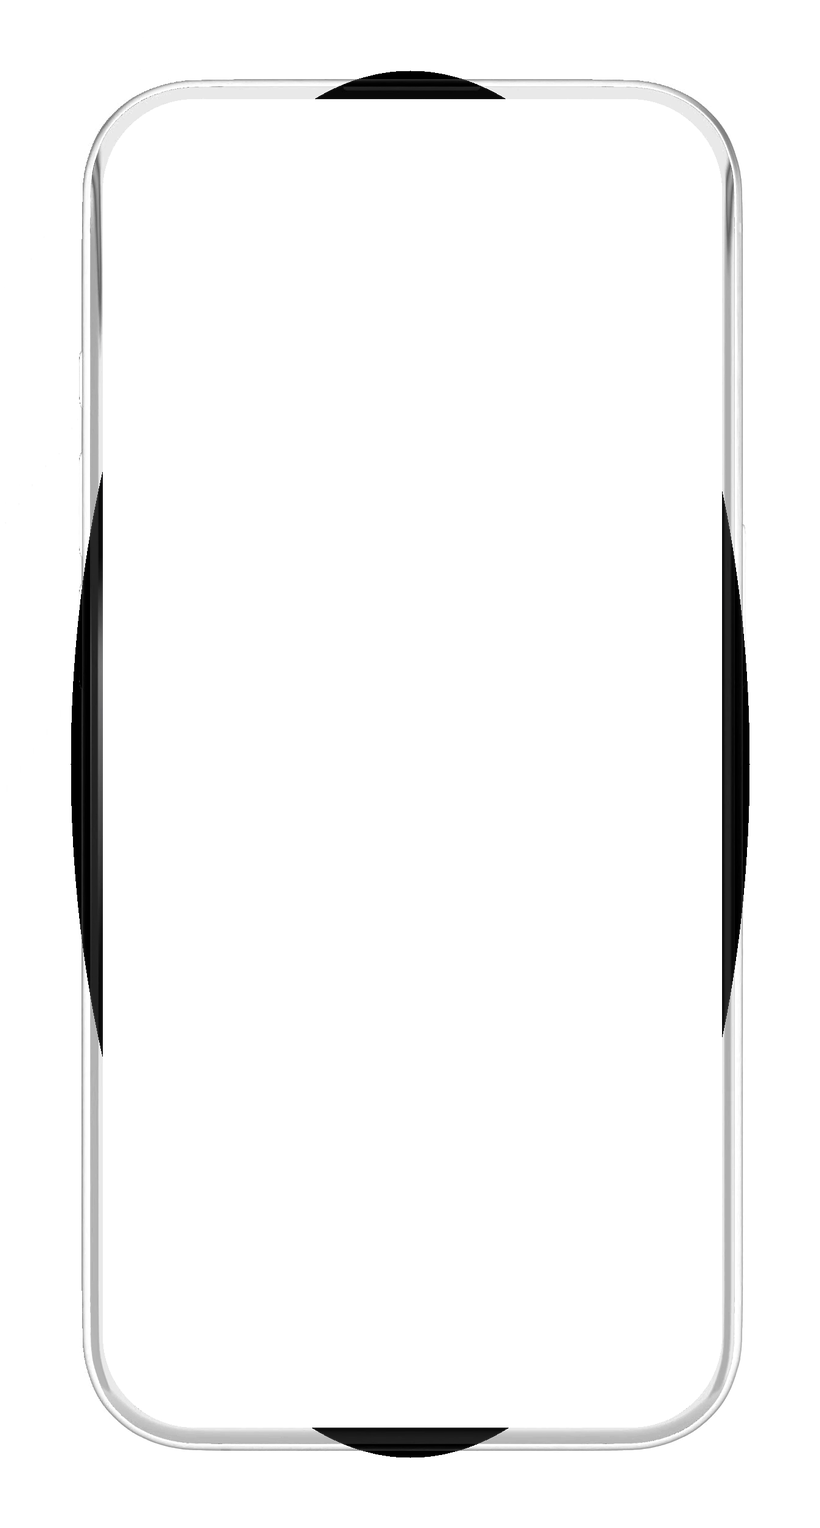
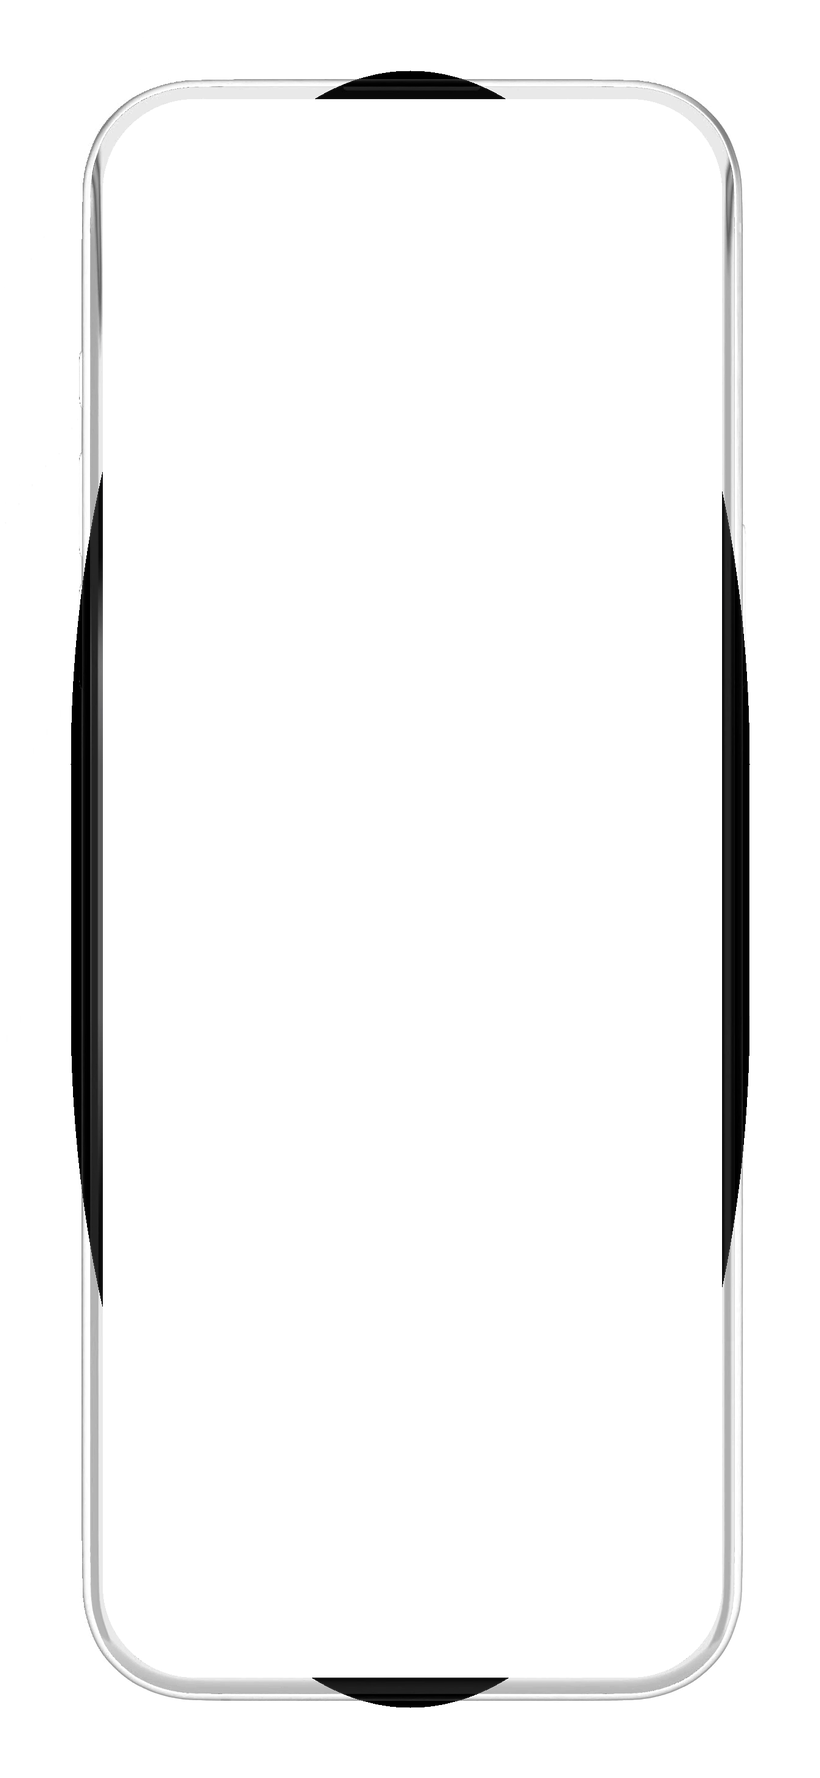
Site2026v47 — le téléphone reprend les proportions d'un vrai iPhone
TROIS DEMANDES DE CHANDLER, 04/09

1 — « LE MOCKUP NE FAIT PAS LA TAILLE D'UN VÉRITABLE TÉLÉPHONE »
Mesuré : le châssis faisait 820 × 1528, soit un rapport de 1,86. Un iPhone 16
fait 2,17. Il était donc réellement trop court pour sa largeur — ce n'était pas
une impression.

⚠ L'IMAGE A ÉTÉ ALLONGÉE PAR LE MILIEU, JAMAIS ÉTIRÉE. Un `scale` vertical
aurait déformé les coins arrondis, les boutons et l'épaisseur de la tranche :
le téléphone serait devenu un objet qui n'existe pas. On duplique 250 lignes
prises dans le PLATEAU de la tranche — mesuré : entre y 710 et y 830, le bord
mesure 32 px sans varier d'un pixel, donc la jonction est invisible.
820 × 1778, rapport 2,168. Vérifié à l'écran : 322 × 703, rapport 2,182.

⚠ ET LES REPÈRES DE L'ÉCRAN SUIVENT, AUX DEUX ENDROITS. `.ecran` est posé en
POURCENTAGES du cadre : la marge du haut ne bouge pas en pixels, donc son
pourcentage baisse (6,221 → 5,346) tandis que l'écran gagne les 250 px
(87,439 → 89,205). Le rayon vertical se mesure sur l'écran, pas sur le cadre
(6,871 → 5,788). Le même 0,89205 est écrit dans le JavaScript
(`AjnayaPhoneDemo.tsx`) : si l'un change sans l'autre, l'écran se décale du
cadre de quelques pixels — visible seulement en bas, donc jamais remarqué.

2 — LA FRISE ET LA SUGGESTION PARTENT
« Les zones rentables, heure par heure » (trois créneaux à 31/44/52 €/h marqués
« exemple ») et « Voir ma zone sur la carte » sont retirées. Ce qui reste dans
[…]

diff --git a/src/components/zone/AjnayaPhoneDemo.tsx b/src/components/zone/AjnayaPhoneDemo.tsx
@@ -248,7 +248,11 @@ export default function AjnayaPhoneDemo({
         const restant = fenetre.clientHeight - hautEcran
         /* La hauteur naturelle reste le plafond : sur un grand écran, le
            téléphone tient en entier et on ne l'étire surtout pas. */
-        const naturelle = tel.offsetHeight * 0.87439
+        /* 0,8920517 = la part de l'écran dans le châssis, LA MÊME que le
+           `height` de `.ecran` en CSS. Les deux valeurs doivent bouger
+           ensemble : si l'une change sans l'autre, l'écran se décale du cadre
+           et le décalage ne se voit qu'en bas, à quelques pixels près. */
+        const naturelle = tel.offsetHeight * 0.8920517
         const voulue = Math.max(HAUTEUR_ECRAN_MIN, Math.min(restant, naturelle))
         /* `floor` et non `round` : la hauteur du châssis est fractionnaire
            (698,77 px), donc le 6,221 % du bord haut l'est aussi. Arrondi au
@@ -899,37 +903,22 @@ export default function AjnayaPhoneDemo({
               )}
               <div className={s['aj-orbe']}>
                 <span className={parle ? `${s.anneau} ${s.respire}` : s.anneau} />
-                {/* ⚠ CE N'EST PLUS UN ŒIL, C'EST L'ICÔNE DE L'APP.
-                    Chandler, 04/09 : « ajoute la véritable icône qu'il y a dans
-                    l'app dans l'onglet Ajnaya, qui remplace l'œil ».
+                {/* ⚠ 04/09 — IL N'Y A VOLONTAIREMENT AUCUNE ICÔNE ICI.
+                    L'orbe garde son fond et son anneau, rien de plus.
 
-                    Elle est extraite du fichier de police que l'app charge
-                    vraiment — `Ionicons.ttf`, glyphe `sparkles` (0xF58C), celui
-                    que `FoTabBar.tsx` nomme à la ligne 54. Ce n'est donc pas un
-                    dessin qui ressemble : c'est le MÊME tracé, au point près.
-                    (Ionicons, licence MIT.)
+                    Il y a eu un œil, repris d'`AjnayaEyeAvatar` — le composant
+                    que l'app affiche en tête de l'écran Ajnaya. Chandler l'a
+                    fait retirer. J'ai ensuite posé le glyphe `sparkles`, celui
+                    que la barre d'onglets nomme dans
+                    `FOREAS-Clean/src/components/navigation/FoTabBar.tsx:54` —
+                    ce n'était pas non plus la bonne.
 
-                    ⚠ L'AXE Y D'UNE POLICE MONTE, CELUI D'UN SVG DESCEND. Sans
-                    le `scale(1,-1)` ci-dessous, l'icône s'affiche à l'envers et
-                    hors du cadre — et comme elle reste symétrique de loin, on
-                    peut le rater. La translation de 448 remet le haut du glyphe
-                    (ascendante mesurée) sur le bord du cadre. */}
-                <svg viewBox="0 0 512 512" aria-hidden="true">
-                  <defs>
-                    <radialGradient id="ajFond"><stop offset="0" stopColor="#0D1526" /><stop offset="1" stopColor="#080C18" /></radialGradient>
-                    <radialGradient id="ajHalo"><stop offset="0" stopColor="#00D4FF" stopOpacity=".28" /><stop offset=".6" stopColor="#6C3CE0" stopOpacity=".12" /><stop offset="1" stopColor="#6C3CE0" stopOpacity="0" /></radialGradient>
-                    <linearGradient id="ajEtoiles" x1="0" y1="0" x2="1" y2="1">
-                      <stop offset="0" stopColor="#6DEAFF" /><stop offset=".5" stopColor="#00D4FF" /><stop offset="1" stopColor="#8C52FF" />
-                    </linearGradient>
-                  </defs>
-                  <circle cx="256" cy="256" r="246" fill="url(#ajFond)" />
-                  <circle cx="256" cy="256" r="200" fill="url(#ajHalo)" />
-                  {/* 0,74 laisse une marge autour du glyphe : posé à 1, il
-                      touche le bord du disque et l'icône paraît à l'étroit. */}
-                  <g transform="translate(256,256) scale(0.74,-0.74) translate(-256,-192)">
-                    <path d="M82 447Q87 449 92.5 447.0Q98 445 100 441Q102 439 110.5 417.0Q119 395 120.0 393.0Q121 391 143.0 382.5Q165 374 169 372Q175 369 175.5 361.0Q176 353 170 349Q168 347 145.0 338.0Q122 329 120.5 327.5Q119 326 110.0 303.0Q101 280 99 278Q95 272 87.5 272.5Q80 273 76 278Q74 281 65.5 304.0Q57 327 55.0 328.0Q53 329 30.5 338.0Q8 347 6 348Q0 352 0 360Q0 366 5 371Q7 373 30.5 382.0Q54 391 55.5 392.5Q57 394 66 417Q76 444 82 447ZM392 414Q400 418 407 414Q411 412 414.0 406.5Q417 401 426 376Q439 344 440.5 343.0Q442 342 471 331Q505 318 508 314Q512 309 511.5 302.5Q511 296 506 292Q503 289 473.5 278.0Q444 267 442 266Q439 264 425 229Q416 205 413.0 199.5Q410 194 405 193Q396 190 389 197Q386 200 374.5 229.5Q363 259 362 262Q360 265 356.5 266.5Q353 268 318 282Q293 291 290 297Q284 307 293 316Q295 318 327.0 330.0Q359 342 360.5 343.5Q362 345 374.0 376.0Q386 407 387.5 409.5Q389 412 392 414ZM200 318Q200 318 200 318Q214 323 225 312Q225 312 230 308L251 253Q272 199 274.0 196.5Q276 194 279.0 192.5Q282 191 333.5 171.0Q385 151 388 149Q394 145 398 138Q402 128 398 118Q394 110 387 106Q385 105 333.5 85.0Q282 65 279.0 63.5Q276 62 274.0 59.5Q272 57 251 3Q251 3 230 -52L225 -56Q218 -64 208 -64Q195 -64 188 -54Q186 -51 165.0 3.5Q144 58 141.5 61.0Q139 64 86.5 84.0Q34 104 30 105Q23 109 18 117Q14 126 17 135Q20 144 28 149Q31 151 83.5 171.0Q136 191 138.5 193.0Q141 195 142.5 196.5Q144 198 164.5 252.0Q185 306 187 309Q192 316 200 318Z" fill="url(#ajEtoiles)" />
-                  </g>
-                </svg>
+                    Ce sont les deux SEULES marques Ajnaya que l'app dessine :
+                    l'œil dans l'écran, les étincelles dans l'onglet. Aucune
+                    autre n'existe dans le dépôt. Sa consigne : « si tu ne la
+                    trouves pas, mets rien, c'est mieux ». Une icône approchante
+                    serait une troisième marque — et trois marques pour une
+                    seule identité, c'est la garantie qu'aucune n'est la bonne. */}
               </div>
               <div className={s['aj-id']}>
                 <div className={s['aj-nom']}>Ajnaya</div>
@@ -1051,77 +1040,21 @@ export default function AjnayaPhoneDemo({
               {/* La frise ne montre ce qui se paie qu'APRÈS avoir donné. */}
               {!!(zoneCourante || '').trim() && (
               <>
-              {/* ══ LA FRISE PASSE APRÈS LA RÉPONSE, ET C'EST UN CHOIX ═══════
-                  Elle était le PREMIER enfant du fil. Comme le fil se cale
-                  désormais sur SA question, elle défilait hors du cadre au bout
-                  d'une demi-seconde : gardée, raccourcie… et jamais vue.
-                  Ici elle arrive à sa place dans le récit : il pose sa question,
-                  il reçoit une vraie réponse de métier — gratuite — et ENSUITE
-                  seulement il voit ce que l'app sait faire en plus.
-                  On donne avant de montrer ce qui se paie. */}
-              <div className={s['aj-frise']}>
-                {/* ⚠ LE MOT « EXEMPLE » EST À L'ÉCRAN, PAS SEULEMENT EN COMMENTAIRE.
-                    Un commentaire juste au-dessus d'un écran qui ment est un faux
-                    témoin, pas une protection. Il reste à la même taille que les
-                    montants qu'il corrige : une mise en garde plus petite que ce
-                    qu'elle corrige ne corrige rien. */}
-                <div className={s.titre}>
-                  Les zones rentables, heure par heure
-                  <span className={s['aj-exemple']}>exemple</span>
-                </div>
-                {/* ⚠ LA PHRASE DE PROMESSE EST RETIRÉE, ET C'EST ELLE QUI FAISAIT
-                    AMATEUR. Elle disait « Ajnaya sait où ça paie autour de {lieu} »
-                    en recopiant tout ce qu'il avait tapé : « autour de comment tu
-                    peux savoir ». Le lieu est maintenant écrit une seule fois, dans
-                    l'en-tête, et il y est juste. 26 points de haut rendus au fil. */}
-                <div className={s['aj-piste']}>
-                  <div className={s['aj-points']}>
-                    <div className={`${s['aj-tiers']} ${s.d}`}><span className={`${s['aj-point']} ${s.on}`} /></div>
-                    <div className={`${s['aj-tiers']} ${s.m}`}><span className={`${s['aj-point']} ${s.futur}`} /></div>
-                    <div className={`${s['aj-tiers']} ${s.f}`}><span className={`${s['aj-point']} ${s.futur}`} /></div>
-                  </div>
-                </div>
-                <div className={s['aj-heures']}>
-                  {/* ⚠ 31/44/52 €/h sont des EXEMPLES, pas des mesures. En
-                      euros et non en pourcentage : un « +61 % » ne se dépense pas. */}
-                  <div className={`${s['aj-tiers']} ${s.d}`}>
-                    <span className={s['aj-heure']}>{heures.h1}</span><span className={s.val}>31 €/h</span>
-                  </div>
-                  <div className={`${s['aj-tiers']} ${s.m} ${s.floue}`}>
-                    <span className={s['aj-heure']}>{heures.h2}</span><span className={s.val}>44 €/h</span>
-                  </div>
-                  <div className={`${s['aj-tiers']} ${s.f} ${s.floue}`}>
-                    <span className={s['aj-heure']}>{heures.h3}</span><span className={s.val}>52 €/h</span>
-                  </div>
-                </div>
-                {/* ⚠ CE VERROU N'EXISTE PAS DANS L'APP — voir l'en-tête. */}
-                <div className={s['aj-verrou']} onClick={onEssaiClick} role="button" tabIndex={0}
-                     onPointerUp={(e) => e.stopPropagation()}
-                     onKeyDown={(e) => e.key === 'Enter' && onEssaiClick?.()}>
-                  <svg viewBox="0 0 24 24" fill="currentColor"><path d="M17 9V7a5 5 0 00-10 0v2H5v13h14V9h-2zM9 7a3 3 0 016 0v2H9V7zm4 9.7V19h-2v-2.3a2 2 0 112 0z" /></svg>
-                  {/* ⚠ NE JAMAIS ÉCRIRE « réservées aux abonnés ». C'était faux deux fois :
-                      ce verrou n'existe pas dans l'app, et les chiffres floutés derrière
-                      ne sont mesurés nulle part. On vendait donc l'ouverture d'un vide.
-                      Dans l'app, un point éteint veut dire « rien de mesuré », jamais « bloqué ». */}
-                  {/* ⚠ UNE SEULE LIGNE — Chandler, 04/09 : « la petite bande avec
-                      le cadenas prend trop d'espace au lieu de tenir sur une ligne ».
-                      Elle en prenait trois : 32 points rendus au fil.
-                      Le mot « exemple » RESTE : c'est la seule mise en garde de
-                      l'écran, elle ne peut pas disparaître pour gagner de la place. */}
-                  <span>Exemple. Dans l&apos;app, c&apos;est <b>mesuré</b>.</span>
-                  <span className={s.fl}>›</span>
-                </div>
-              </div>
+              {/* ⚠ 04/09 — LA FRISE « LES ZONES RENTABLES, HEURE PAR HEURE » A ÉTÉ
+                  RETIRÉE, sur demande de Chandler. Elle montrait trois créneaux
+                  avec 31 / 44 / 52 €/h marqués « exemple ».
+                  Ce qui reste dans le fil est ce qu'Ajnaya RÉPOND — pas une
+                  vitrine de ce qu'elle saura faire. Le téléphone y gagne la
+                  hauteur, et le récit n'a plus deux fins. */}
               </>
               )}
             </div>
 
             <footer className={s['aj-dock']}>
               <i className={s['aj-hair']} />
-              <div className={s['aj-sugg']}>
-                <svg viewBox="0 0 24 24" fill="none" stroke="currentColor" strokeWidth="2"><path d="M9 17H7A5 5 0 017 7h2M15 7h2a5 5 0 010 10h-2M8 12h8" /></svg>
-                Voir ma zone sur la carte
-              </div>
+              {/* ⚠ 04/09 — « VOIR MA ZONE SUR LA CARTE » A ÉTÉ RETIRÉ.
+                  C'était une porte de plus au-dessus du champ de saisie, dans
+                  un écran qui n'en demande qu'une : lui parler. */}
               <div className={s['aj-row']}>
                 <button
                   className={`${s['aj-mic']} ${ecoute ? s.ecoute : ''}`}

diff --git a/src/components/zone/ajnayaPhone.module.css b/src/components/zone/ajnayaPhone.module.css
@@ -54,7 +54,19 @@
 @keyframes ajFlotte{0%,100%{transform:translateY(0)}50%{transform:translateY(-7px)}}
 .tel > img{display:block;width:100%;height:auto;position:relative;z-index:2;
   pointer-events:none;user-select:none;}
-.ecran{position:absolute;z-index:1;overflow:hidden;left:12.037%;top:6.221%;width:76.445%;height:87.439%;border-radius:14.749%/6.871%;background:#000;}
+/* ⚠ CES POURCENTAGES SUIVENT L'IMAGE DU CADRE, ET ELLE A CHANGÉ LE 04/09.
+   Le châssis mesurait 820 × 1528, soit un rapport de 1,86 — Chandler : « il ne
+   fait pas la taille d'un véritable téléphone, il a l'air légèrement trop
+   compacté ». C'était juste : un iPhone 16 fait 2,17.
+   L'image a été ALLONGÉE PAR LE MILIEU (250 px dupliqués depuis le plateau de
+   la tranche, y 710→830, où le bord mesure 32 px sans varier) : 820 × 1778,
+   rapport 2,168. Les coins, les boutons et l'épaisseur sont intacts — un
+   étirement les aurait déformés.
+   Les repères ci-dessous sont recalculés sur la NOUVELLE hauteur : la marge du
+   haut ne bouge pas en pixels, donc son pourcentage baisse ; l'écran, lui,
+   gagne les 250 px. Le rayon vertical suit la hauteur de l'écran, pas celle du
+   cadre — d'où les deux valeurs séparées par le `/`. */
+.ecran{position:absolute;z-index:1;overflow:hidden;left:12.037%;top:5.34628%;width:76.445%;height:89.20517%;border-radius:14.749%/5.78798%;background:#000;}
 
 /* la scène à l'échelle 1:1 de l'app, réduite d'un bloc */
 .app{position:absolute;top:0;left:0;width:393px;
